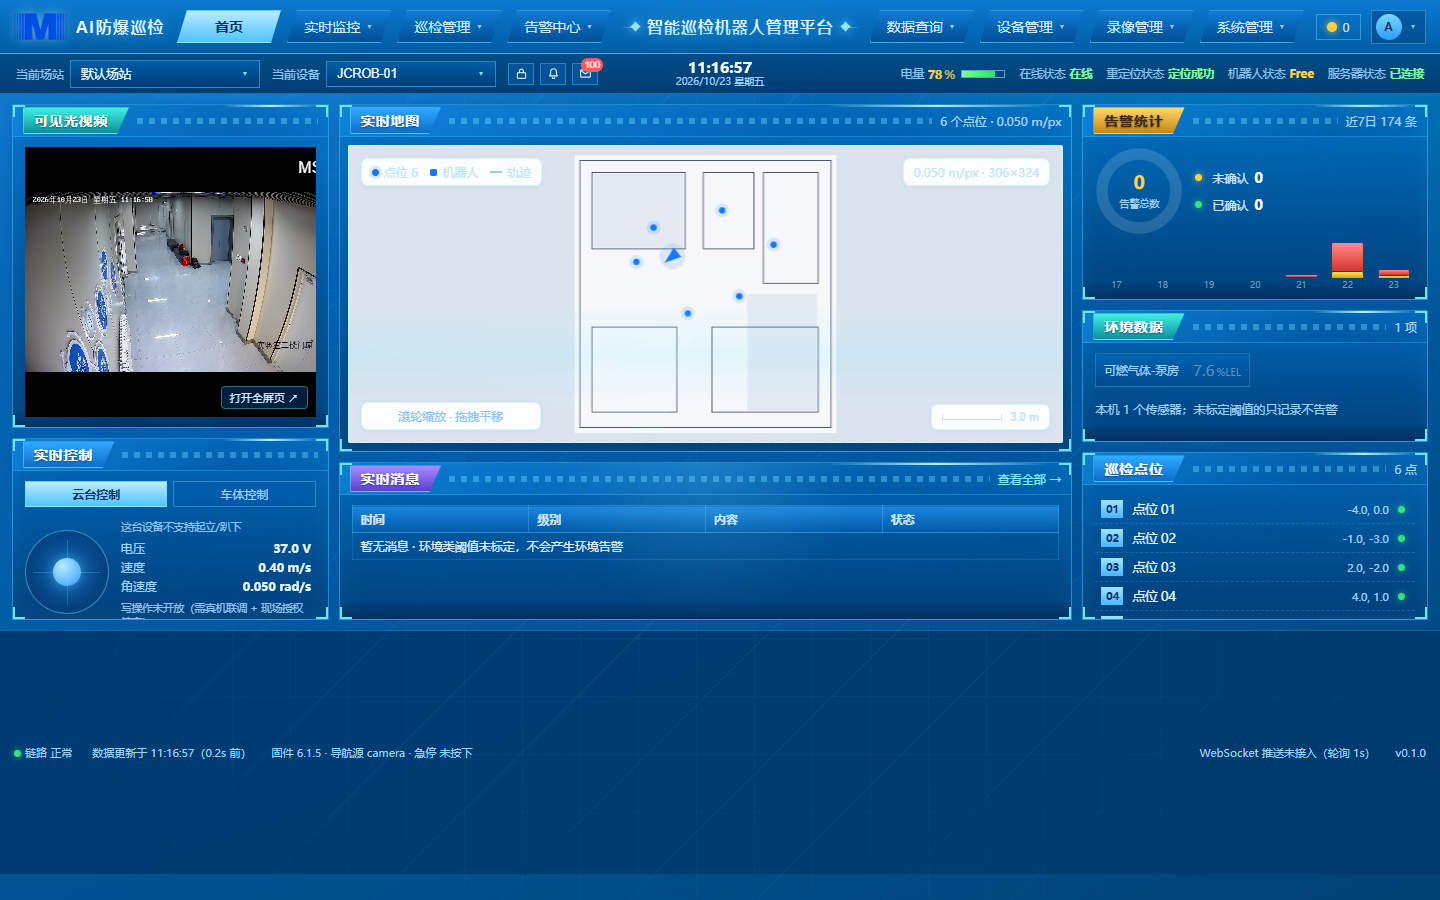
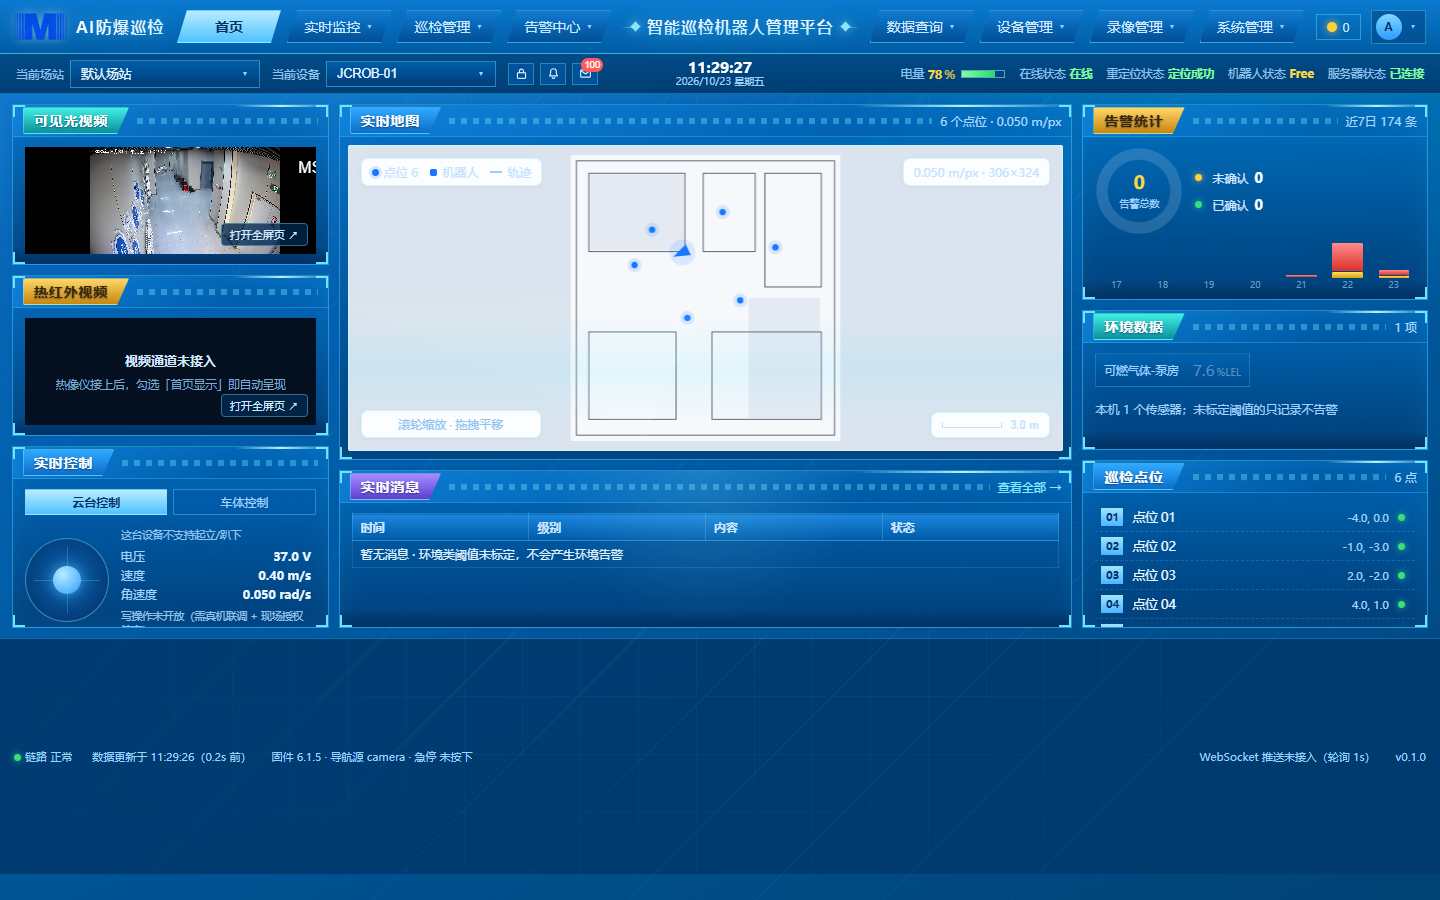
fix: 可见光改用云台正常视角（机载广角不再当主画面）+ 热红外面板恢复占位
1) 广角问题定位
   go2rtc 里有三路 X30 相机：
   - dog      = 机载广角（640x480，鱼眼，就是用户看到的"广角"）
   - dog_ptz  = 海康云台 CH101（2688x1520，正常视角，和 8123 画面一致）
   - x30_thermal = 海康云台 CH201（热成像）
   大屏"可见光"原来取 dashVideos[0]，正好是机载广角。
   改为优先匹配 云台/PTZ/球机，并排除 机载/广角/鱼眼。
   机载广角保留为普通视频源（show_on_dashboard=0），需要时可单独看。

2) 热红外面板恢复占位
   用户要求：设备没有热像仪时也要留位置（和之前一样），
   不要整块消失。去掉了 v-if，恢复"视频通道未接入"占位。

验证：X30 大屏可见光已是云台正常视角（和 8123 一致），热红外为热成像；
JCROB-01 页面热红外面板显示占位。

diff --git a/web/src/pages/Dashboard.vue b/web/src/pages/Dashboard.vue
@@ -63,7 +63,10 @@ const videoRows = ref<{
 const dashVideos = computed(() => videoRows.value.filter((v) => v.show_on_dashboard && v.go2rtc_url))
 const visibleVideo = computed(() => {
   const pool = dashVideos.value
-  return pool.find((x) => /充电房|可见光|车体/.test(x.group_name + x.name)) ?? pool[0] ?? null
+  // 优先云台/球机：机载广角画面畸变，不能当大屏主画面
+  return pool.find((x) => /云台|PTZ|球机/i.test(x.name)) ??
+    pool.find((x) => !/机载|广角|鱼眼/.test(x.name)) ??
+    pool[0] ?? null
 })
 const thermalVideo = computed(() =>
   dashVideos.value.find((x) => /热|红外|thermal/i.test(x.name + x.group_name)) ?? null)
@@ -398,7 +401,7 @@ async function logout() {
           </div>
         </ScadaPanel>
 
-        <ScadaPanel v-if="thermalVideo" title="热红外视频" tone="gold" class="grow" body-class="no-pad">
+        <ScadaPanel title="热红外视频" tone="gold" class="grow" body-class="no-pad">
           <div class="embed">
             <iframe v-if="thermalStream" :src="thermalStream" title="热红外" allow="autoplay; fullscreen" />
             <div v-else class="embed-empty">
